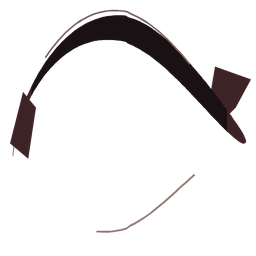
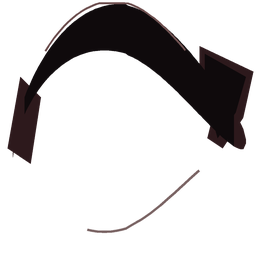
添付MMDモデルに合わせ上まつ毛と目尻アイラインをしっかり太くくっきり修正

diff --git a/mmdgen/textures.py b/mmdgen/textures.py
@@ -146,18 +146,18 @@ class TextureSet:
         d.ellipse([n * 0.65, n * 0.25, n * 0.75, n * 0.34], fill=_rgb((1, 1, 1), 220))
         return self.save(img.resize((256, 256), Image.LANCZOS), name)
 
-    def lash(self, name="lash.png", color=(0.10, 0.07, 0.08)):
-        """既製MMDモデル（初音ミク・Tda式等）準拠のすっきり上品なアイライン：
+    def lash(self, name="lash.png", color=(0.06, 0.04, 0.05)):
+        """既製MMDモデル（初音ミク・Tda式・テト・ネル等）準拠の太く存在感のある上まつ毛アイライン：
         目頭側は瞳の外縁にすぐ接する角度で立ち上げて内側の白目隙間をなくし、
-        中央〜目尻にかけて優美な弧を描いて目尻側に白い三角余白とキュートなハネを作る。"""
+        上まぶた全体から目尻にかけて太くくっきりした黒〜濃茶のアーチで瞳の上部を力強く包み込む。"""
         n = 256 * S
         img = Image.new("RGBA", (n, n), (0, 0, 0, 0))
         d = ImageDraw.Draw(img)
 
-        edge_brown = _rgb((0.24, 0.14, 0.15), 255)
+        edge_brown = _rgb((0.18, 0.10, 0.11), 255)
         core_dark = _rgb(color, 255)
 
-        # 1) 上まつ毛のメインアーチ（eye_white の非対称カーブにぴったり沿わせる）
+        # 1) 上まつ毛のメインアーチ（eye_white の非対称カーブに沿わせつつ、MMDモデル特有の太く力強いまつ毛幅にする）
         ts = np.linspace(0.0, 1.0, 100)
         pts_top, pts_bot = [], []
         for t in ts:
@@ -168,51 +168,61 @@ class TextureSet:
             p_top = 0.38 if x < 0 else 0.54
             y_base = 0.58 - 0.030 * x
             y_arch = y_base - 0.47 * (w ** p_top)
-            env = (np.sin(np.pi * t) ** 0.50) * (0.48 + 0.52 * (t ** 0.65))
-            th_up = (0.048 + 0.038 * (t ** 1.1)) * env + 0.005
-            th_dn = (0.036 + 0.036 * (t ** 1.3)) * env + 0.005
+            env = (np.sin(np.pi * t) ** 0.42) * (0.62 + 0.38 * (t ** 0.55))
+            th_up = (0.082 + 0.052 * (t ** 1.0)) * env + 0.008
+            th_dn = (0.068 + 0.062 * (t ** 1.2)) * env + 0.008
             pts_top.append((u * n, (y_arch - th_up) * n))
             pts_bot.append((u * n, (y_arch + th_dn) * n))
 
         d.polygon(pts_top + pts_bot[::-1], fill=edge_brown)
 
-        # 目頭の小さな引き締めライン（瞳の内側リムと自然につながり、目頭の白目隙間を完全に埋める）
+        # 目頭の引き締めライン（瞳の内側リムと自然につながり、目頭の白目隙間を完全に埋める）
         inner_corner = [
-            (0.04 * n, 0.56 * n),
-            (0.09 * n, 0.36 * n),
-            (0.14 * n, 0.42 * n),
-            (0.11 * n, 0.62 * n),
+            (0.03 * n, 0.58 * n),
+            (0.08 * n, 0.30 * n),
+            (0.16 * n, 0.38 * n),
+            (0.12 * n, 0.64 * n),
         ]
         d.polygon(inner_corner, fill=edge_brown)
 
-        # 目尻のキュートなハネと繊細なまつ毛スパイク
+        # 目尻の太く存在感のある包みとキュートなハネ（添付画像のMMDモデル同様に目尻側でしっかり太さを持たせる）
         wing = [
-            (0.84 * n, 0.26 * n),
-            (0.98 * n, 0.31 * n),
-            (0.92 * n, 0.42 * n),
-            (0.86 * n, 0.48 * n),
-            (0.82 * n, 0.38 * n),
+            (0.78 * n, 0.18 * n),
+            (0.99 * n, 0.28 * n),
+            (0.95 * n, 0.46 * n),
+            (0.87 * n, 0.58 * n),
+            (0.81 * n, 0.54 * n),
+            (0.84 * n, 0.42 * n),
+            (0.78 * n, 0.32 * n),
         ]
         d.polygon(wing, fill=edge_brown)
+        wing_core = [
+            (0.80 * n, 0.21 * n),
+            (0.96 * n, 0.30 * n),
+            (0.92 * n, 0.44 * n),
+            (0.85 * n, 0.54 * n),
+            (0.80 * n, 0.36 * n),
+        ]
+        d.polygon(wing_core, fill=core_dark)
 
-        c_lo, c_hi = int(len(ts) * 0.08), int(len(ts) * 0.92)
+        c_lo, c_hi = int(len(ts) * 0.05), int(len(ts) * 0.95)
         d.polygon(pts_top[c_lo:c_hi] + pts_bot[c_lo:c_hi][::-1], fill=core_dark)
 
-        # 2) 二重まぶたの線（上まつ毛の上に沿う繊細なライン）
+        # 2) 二重まぶたの線（太い上まつ毛の少し上に沿う繊細なライン）
         crease_pts = []
-        for t in np.linspace(0.14, 0.76, 45):
+        for t in np.linspace(0.14, 0.74, 45):
             x = -0.90 + 1.82 * t
             u = 0.5 + 0.5 * x
             x_norm = np.clip((x + 0.90) / 1.82, 0.0, 1.0)
             w = np.sin(np.pi * (x_norm ** 0.78)) ** 2
             p_top = 0.38 if x < 0 else 0.54
-            y_c = max(0.015, (0.58 - 0.030 * x) - 0.47 * (w ** p_top) - 0.074 * (np.sin(np.pi * t) ** 0.6))
+            y_c = max(0.012, (0.58 - 0.030 * x) - 0.47 * (w ** p_top) - 0.112 * (np.sin(np.pi * t) ** 0.55))
             crease_pts.append((u * n, y_c * n))
-        d.line(crease_pts, fill=_rgb((0.36, 0.22, 0.20), 195), width=max(2, int(n * 0.0075)))
+        d.line(crease_pts, fill=_rgb((0.32, 0.18, 0.18), 210), width=max(2, int(n * 0.0085)))
 
-        # 3) 下まぶたの控えめなアイライン（目尻寄りに薄く添える）
+        # 3) 下まぶたのアイライン（目尻〜中央に添える）
         low_pts = []
-        for t in np.linspace(0.36, 0.78, 24):
+        for t in np.linspace(0.32, 0.80, 24):
             x = -0.90 + 1.82 * t
             u = 0.5 + 0.5 * x
             x_norm = np.clip((x + 0.90) / 1.82, 0.0, 1.0)
@@ -220,7 +230,7 @@ class TextureSet:
             p_bot = 0.52 if x < 0 else 0.78
             y_l = (0.58 - 0.030 * x) + 0.32 * (w ** p_bot)
             low_pts.append((u * n, y_l * n))
-        d.line(low_pts, fill=_rgb((0.38, 0.24, 0.22), 165), width=max(2, int(n * 0.0085)))
+        d.line(low_pts, fill=_rgb((0.30, 0.18, 0.18), 185), width=max(2, int(n * 0.010)))
 
         return self.save(img.resize((256, 256), Image.LANCZOS), name)
 
